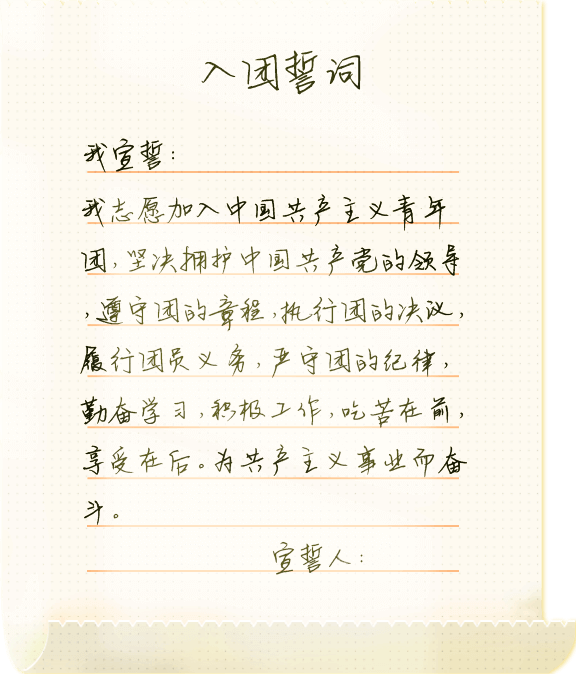
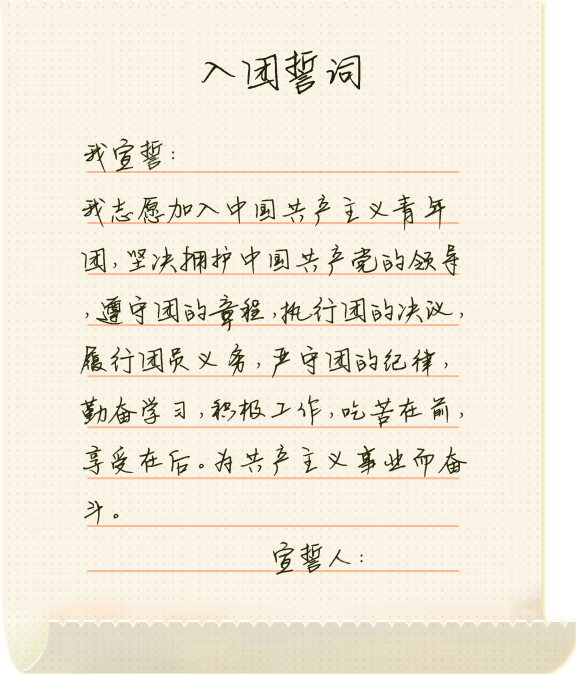
test

diff --git a/css/index.css b/css/index.css
@@ -24,8 +24,8 @@ p {
   z-index: 3;
   margin-left: 4.4%;
   margin-top: 0.53333333rem;
-  height: 2.05333333rem;
-  width: 20%;
+  height: 76.61691542%;
+  width: 2rem;
 }
 .header .logo img {
   height: 100%;
@@ -36,7 +36,7 @@ p {
   position: relative;
   z-index: 10;
   height: 1.96rem;
-  width: 58.26666667%;
+  height: 73.13432836%;
   margin-right: 16.8%;
   margin-top: 0.68rem;
 }

diff --git a/index.html b/index.html
@@ -42,7 +42,7 @@
         </div>
         <div class="content">
             <div class="paper">
-                <img src="./img/p1.png" alt="">
+                <img src="./img/paper.png" alt="">
             </div>
             <div class="left-hand-1">
                 <img src="./img/lefth1.png" alt="">
